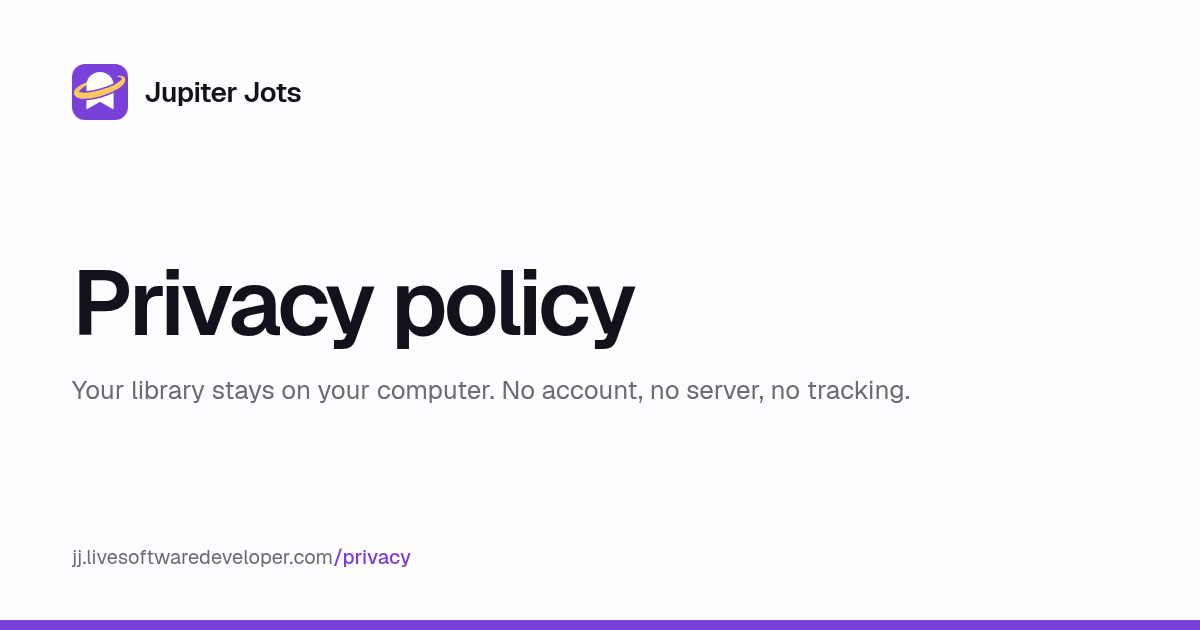
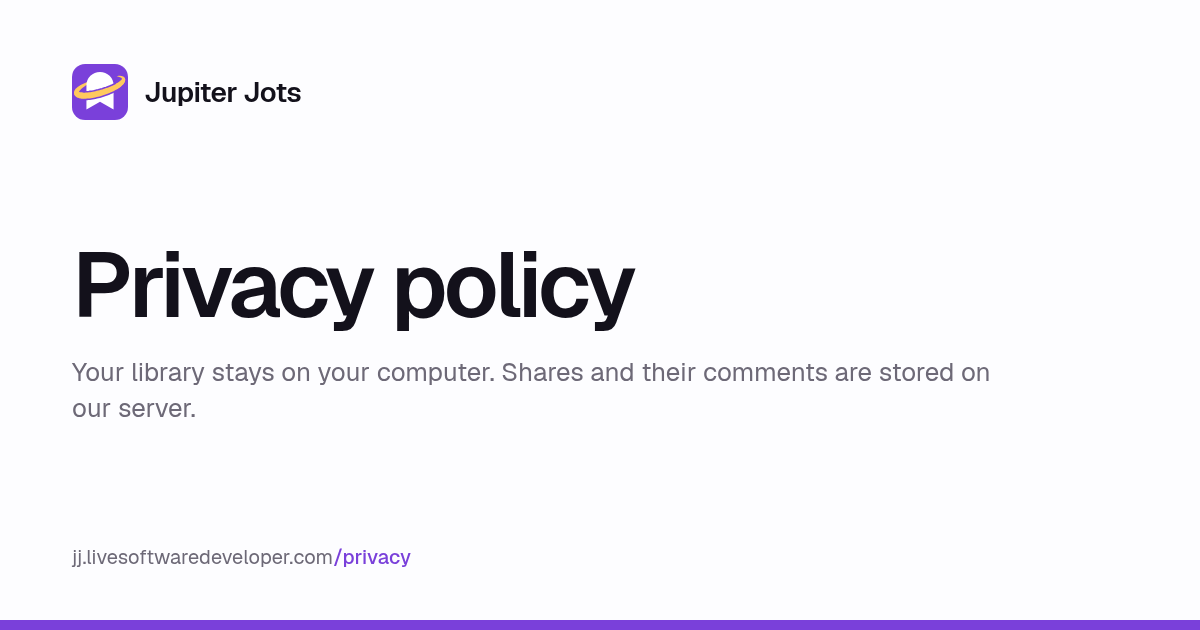
fix(site): honest copy about what our server stores, owner delete, no false save-to-library
Bookmarks stay on the device; shares and their comments are stored on our
server so links work. Share pages no longer promise an import that does not
exist: the CTA is "Get Jupiter Jots". Privacy, terms, FAQ, about, home,
site description and the privacy OG card are corrected; owner Delete is
documented with Support as the fallback.

Changed region(s): [[0.0617, 0.3921, 0.8325, 0.6635]]

diff --git a/src/app/(site)/page.tsx b/src/app/(site)/page.tsx
@@ -44,7 +44,7 @@ export default function HomePage() {
               <span className="block">Save the page.</span> <span className="block">Keep the reason.</span>
             </h1>
             <p className="mt-6 max-w-md text-lg leading-relaxed text-muted-foreground">
-              A bookmark manager that saves any page in one click, with a note on why it mattered. Bookmark the tabs you mean to read, give them a reason, then close them. Free, and it stays on your device.
+              A bookmark manager that saves any page in one click, with a note on why it mattered. Bookmark the tabs you mean to read, give them a reason, then close them. Free, and your library stays on your device.
             </p>
             <div className="mt-8 flex flex-wrap items-center gap-3">
               <StoreLink className={btnPrimary("lg")}>
@@ -76,7 +76,7 @@ export default function HomePage() {
             ["One click", "Save the tab you are on from the toolbar, a right-click or Alt+Shift+S."],
             ["A note for future you", "Write why you saved it. Search finds it by that note later."],
             ["Collections that nest", "Folders inside folders, with tags, favourites and an archive."],
-            ["Yours alone", "No account and no server. Your library lives in your browser."],
+            ["Yours alone", "No account. Your library lives in your browser; only what you share is stored on our server."],
           ]}
         />
       </section>
@@ -180,7 +180,7 @@ export default function HomePage() {
         <div className="mx-auto grid w-full max-w-6xl gap-10 px-4 sm:px-6 lg:grid-cols-12">
           <div className="lg:col-span-4">
             <h2 id="priv-h" className={H2}>
-              There is no Jupiter Jots server
+              Your library stays in your browser
             </h2>
             <Link href="/privacy" className={`mt-4 inline-block ${textLink}`}>
               Read the privacy policy
@@ -193,6 +193,10 @@ export default function HomePage() {
               ["No account, no tracking", "Nothing to sign up for. No analytics, no ads."],
               ["Free", "Every feature on this page costs nothing."],
               ["Not synced yet", "Move your library between computers with export or a backup file."],
+              [
+                "Shares live on our server",
+                "Items you share, and comments on them, are stored on our server so the link works. Owners can delete a share from the extension.",
+              ],
             ]}
           />
         </div>

diff --git a/src/components/share/ShareHero.tsx b/src/components/share/ShareHero.tsx
@@ -26,7 +26,6 @@ const GLOBE = (
 export function ShareHero({ share, payload, action }: { share: PublicShare; payload: SharePayload; action?: ReactNode }) {
   const priv = share.visibility === "private"
   const bands = toBands(payload.items)
-  const lone = bands.length === 1 && bands[0].kind === "bookmark"
   const curator = payload.curator.name || share.curator_name
   const updated = formatDate(share.updated_at)
   const expires = formatDate(share.expires_at)
@@ -81,9 +80,9 @@ export function ShareHero({ share, payload, action }: { share: PublicShare; payl
         </div>
         <div className="lg:col-span-4 lg:pt-10">
           <div className="rounded-2xl bg-primary/[0.07] p-5 ring-1 ring-primary/15">
-            <p className="text-sm font-medium">{lone ? "Save this bookmark" : "Keep this share"}</p>
+            <p className="text-sm font-medium">Like this share?</p>
             <p className="mt-1 text-sm leading-relaxed text-muted-foreground">
-              Save it to your own Jupiter Jots library — graphs and collections included. Free, and it stays on your device.
+              Make collections and graphs like this one with Jupiter Jots. Free, and your library stays on your device.
             </p>
             <div className="mt-4 flex flex-wrap gap-2">
               <Link
@@ -94,7 +93,7 @@ export function ShareHero({ share, payload, action }: { share: PublicShare; payl
                 )}
               >
                 <PlusIcon />
-                Save to my library
+                Get Jupiter Jots
               </Link>
               <CopyLinkButton
                 className={cn(

diff --git a/src/app/home-seo.ts b/src/app/home-seo.ts
@@ -5,7 +5,7 @@ export const HOME_SEO = pageMetadata({
   title: "Jupiter Jots | Bookmark manager for Chrome with notes",
   socialTitle: "Jupiter Jots: save the page, keep the reason",
   description:
-    "A free bookmark manager for Chrome. Save any page in one click with a note on why it mattered, sort it into nested collections, and keep it all on your device.",
+    "A free bookmark manager for Chrome. Save any page in one click with a note on why it mattered, sort it into nested collections, and keep your library on your device.",
   path: "/",
   image: "home",
   imageAlt: "Jupiter Jots: save the page, keep the reason",

diff --git a/src/components/share/PrivateGate.tsx b/src/components/share/PrivateGate.tsx
@@ -186,7 +186,7 @@ export function PrivateGate({ share }: { share: PublicShare }) {
           <h1 className="mt-6 font-serif text-3xl leading-tight tracking-tight break-words text-balance">{share.title}</h1>
           {askable ? (
             <p className="mt-2 text-sm text-muted-foreground">
-              Enter the password {who} sent you. It unlocks in your browser — the server never sees what’s inside.
+              Enter the password {who} sent you. It unlocks in your browser — our server stores it encrypted and can’t read it.
             </p>
           ) : null}
 

diff --git a/src/components/share/CollectionSheet.tsx b/src/components/share/CollectionSheet.tsx
@@ -163,7 +163,7 @@ function CollectionSheet({ entry, curator, onClose }: { entry: SheetEntry; curat
         </div>
         <div className="flex shrink-0 items-center gap-2 border-t border-border px-4 py-3 pb-[max(0.75rem,env(safe-area-inset-bottom))] sm:px-5">
           <Link href="/#get" className={cn(btnPrimary("md"), "flex-1 sm:flex-none")}>
-            Save this collection
+            Get Jupiter Jots
           </Link>
           <CopyLinkButton hash={anchorFor(entry.key)} className={cn(btnSecondary("md"), "px-4")} />
         </div>

diff --git a/src/lib/site.ts b/src/lib/site.ts
@@ -22,5 +22,5 @@ export const SITE = {
   name: "Jupiter Jots",
   tagline: "Save the page. Keep the reason.",
   description:
-    "Jupiter Jots is a free bookmark manager for Chrome that saves any page in one click, with a note on why it mattered. No account, no server: your library stays on your device.",
+    "Jupiter Jots is a free bookmark manager for Chrome that saves any page in one click, with a note on why it mattered. No account: your library stays on your device, and only what you choose to share is stored on our server.",
 }

diff --git a/src/app/(site)/privacy/page.tsx b/src/app/(site)/privacy/page.tsx
@@ -16,7 +16,7 @@ export default function PrivacyPage() {
   return (
     <DocLayout
       title="Privacy policy"
-      lede="Jupiter Jots keeps your library on your own computer. There is no account and no tracking. Only what you choose to share reaches our server."
+      lede="Jupiter Jots keeps your library on your own computer. There is no account and no tracking. Only what you choose to share, and comments on shares, reach our server."
       meta="Effective 18 October 2026. Last updated 23 October 2026."
       toc={toc}
     >

diff --git a/src/components/site/Prose.tsx b/src/components/site/Prose.tsx
@@ -38,7 +38,7 @@ export function Def({ term, aside, strong = false, wide = false, children }: {
         {term}
         {aside && <span className="font-normal text-muted-foreground"> {aside}</span>}
       </dt>
-      <dd className={cn("leading-7 text-muted-foreground", wide ? "sm:col-span-9" : "sm:col-span-8")}>{children}</dd>
+      <dd className={cn("leading-7 text-muted-foreground [&_p+p]:mt-3 [&_p+ul]:mt-2 [&_ul]:list-disc [&_ul]:pl-5 [&_ul+p]:mt-2", wide ? "sm:col-span-9" : "sm:col-span-8")}>{children}</dd>
     </div>
   )
 }

diff --git a/og/build.py b/og/build.py
@@ -39,7 +39,7 @@ IMAGES = [
     ("support", "/support", "Support",
      "Find an answer, report a problem, or contact us.", None),
     ("privacy", "/privacy", "Privacy policy",
-     "Your library stays on your computer. No account, no server, no tracking.", None),
+     "Your library stays on your computer. Shares and their comments are stored on our server.", None),
     ("terms", "/terms", "Terms of use",
      "The rules for using Jupiter Jots, in plain language.", None),
 ]
